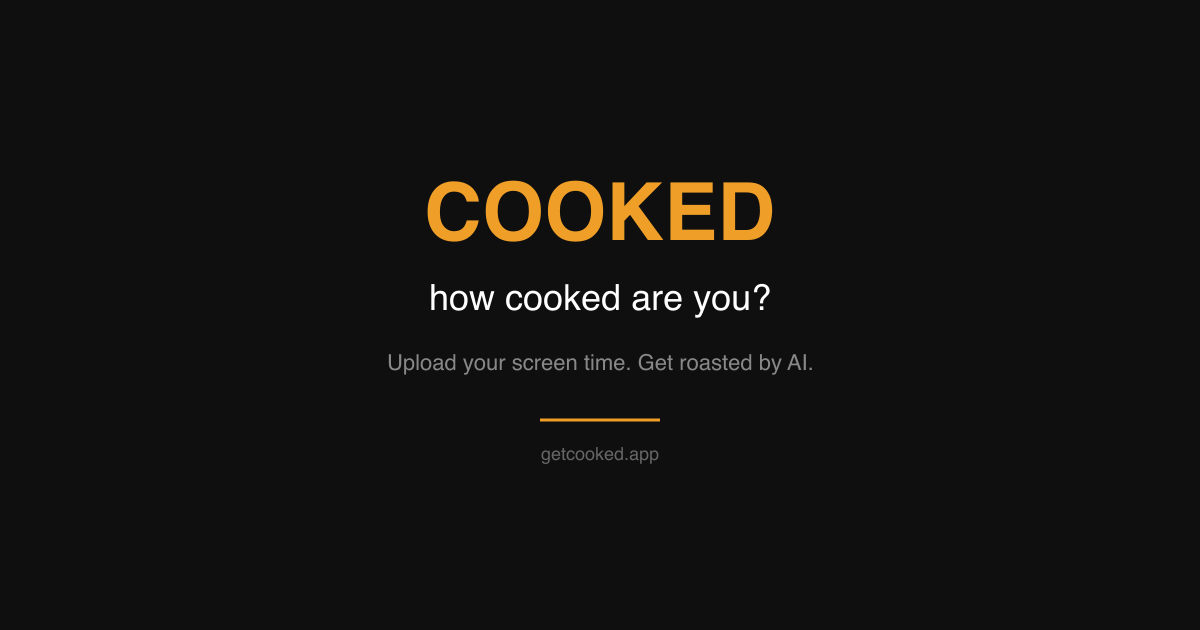
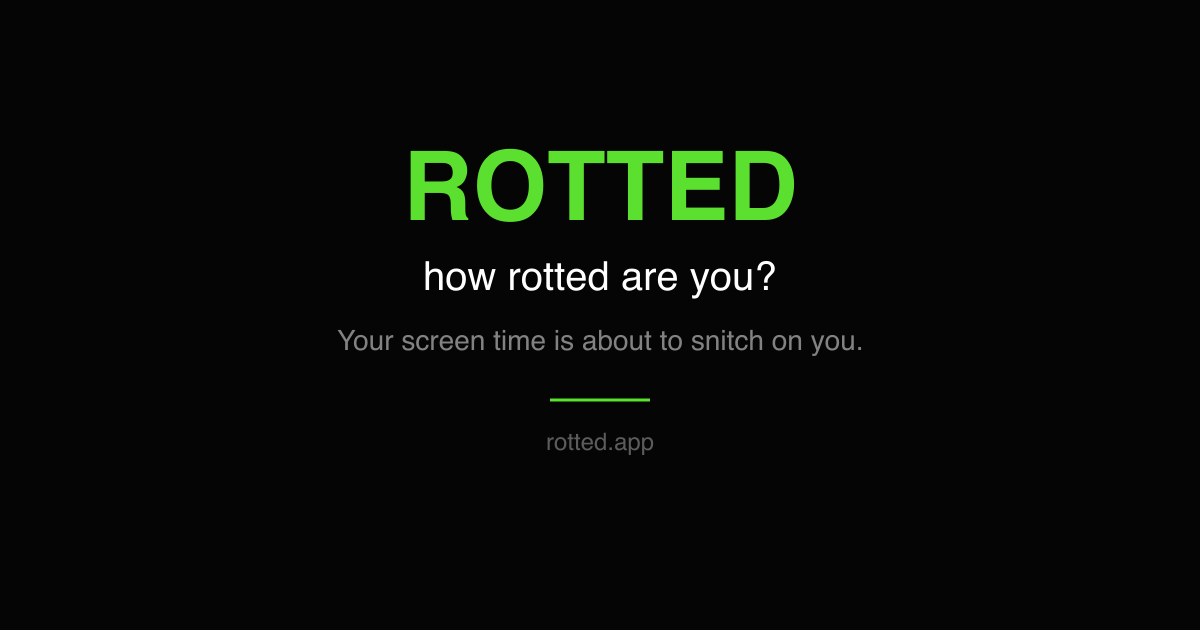
Update OG preview image and meta descriptions for Rotted rebrand

Changed region(s): [[0.2775, 0.4222, 0.7092, 0.6032], [0.3392, 0.2413, 0.6783, 0.3921], [0.4317, 0.6333, 0.555, 0.754]]

diff --git a/src/app/layout.tsx b/src/app/layout.tsx
@@ -16,14 +16,14 @@ export const metadata: Metadata = {
   },
   title: "Rotted — how rotted are you?",
   description:
-    "Upload your screen time screenshot. AI exposes your digital sins. Share your results.",
+    "Your screen time is about to snitch on you. Share your results.",
   metadataBase: new URL(
     process.env.NEXT_PUBLIC_APP_URL || "http://localhost:3000"
   ),
   openGraph: {
     title: "Rotted — how rotted are you?",
     description:
-      "Upload your screen time screenshot. Get roasted by AI. Share your results.",
+      "Your screen time is about to snitch on you.",
     url: "https://rotted.app",
     siteName: "Rotted",
     images: [
@@ -41,7 +41,7 @@ export const metadata: Metadata = {
     card: "summary_large_image",
     title: "Rotted — how rotted are you?",
     description:
-      "Upload your screen time screenshot. Get roasted by AI.",
+      "Your screen time is about to snitch on you.",
     images: ["/images/og-preview.png"],
   },
 };